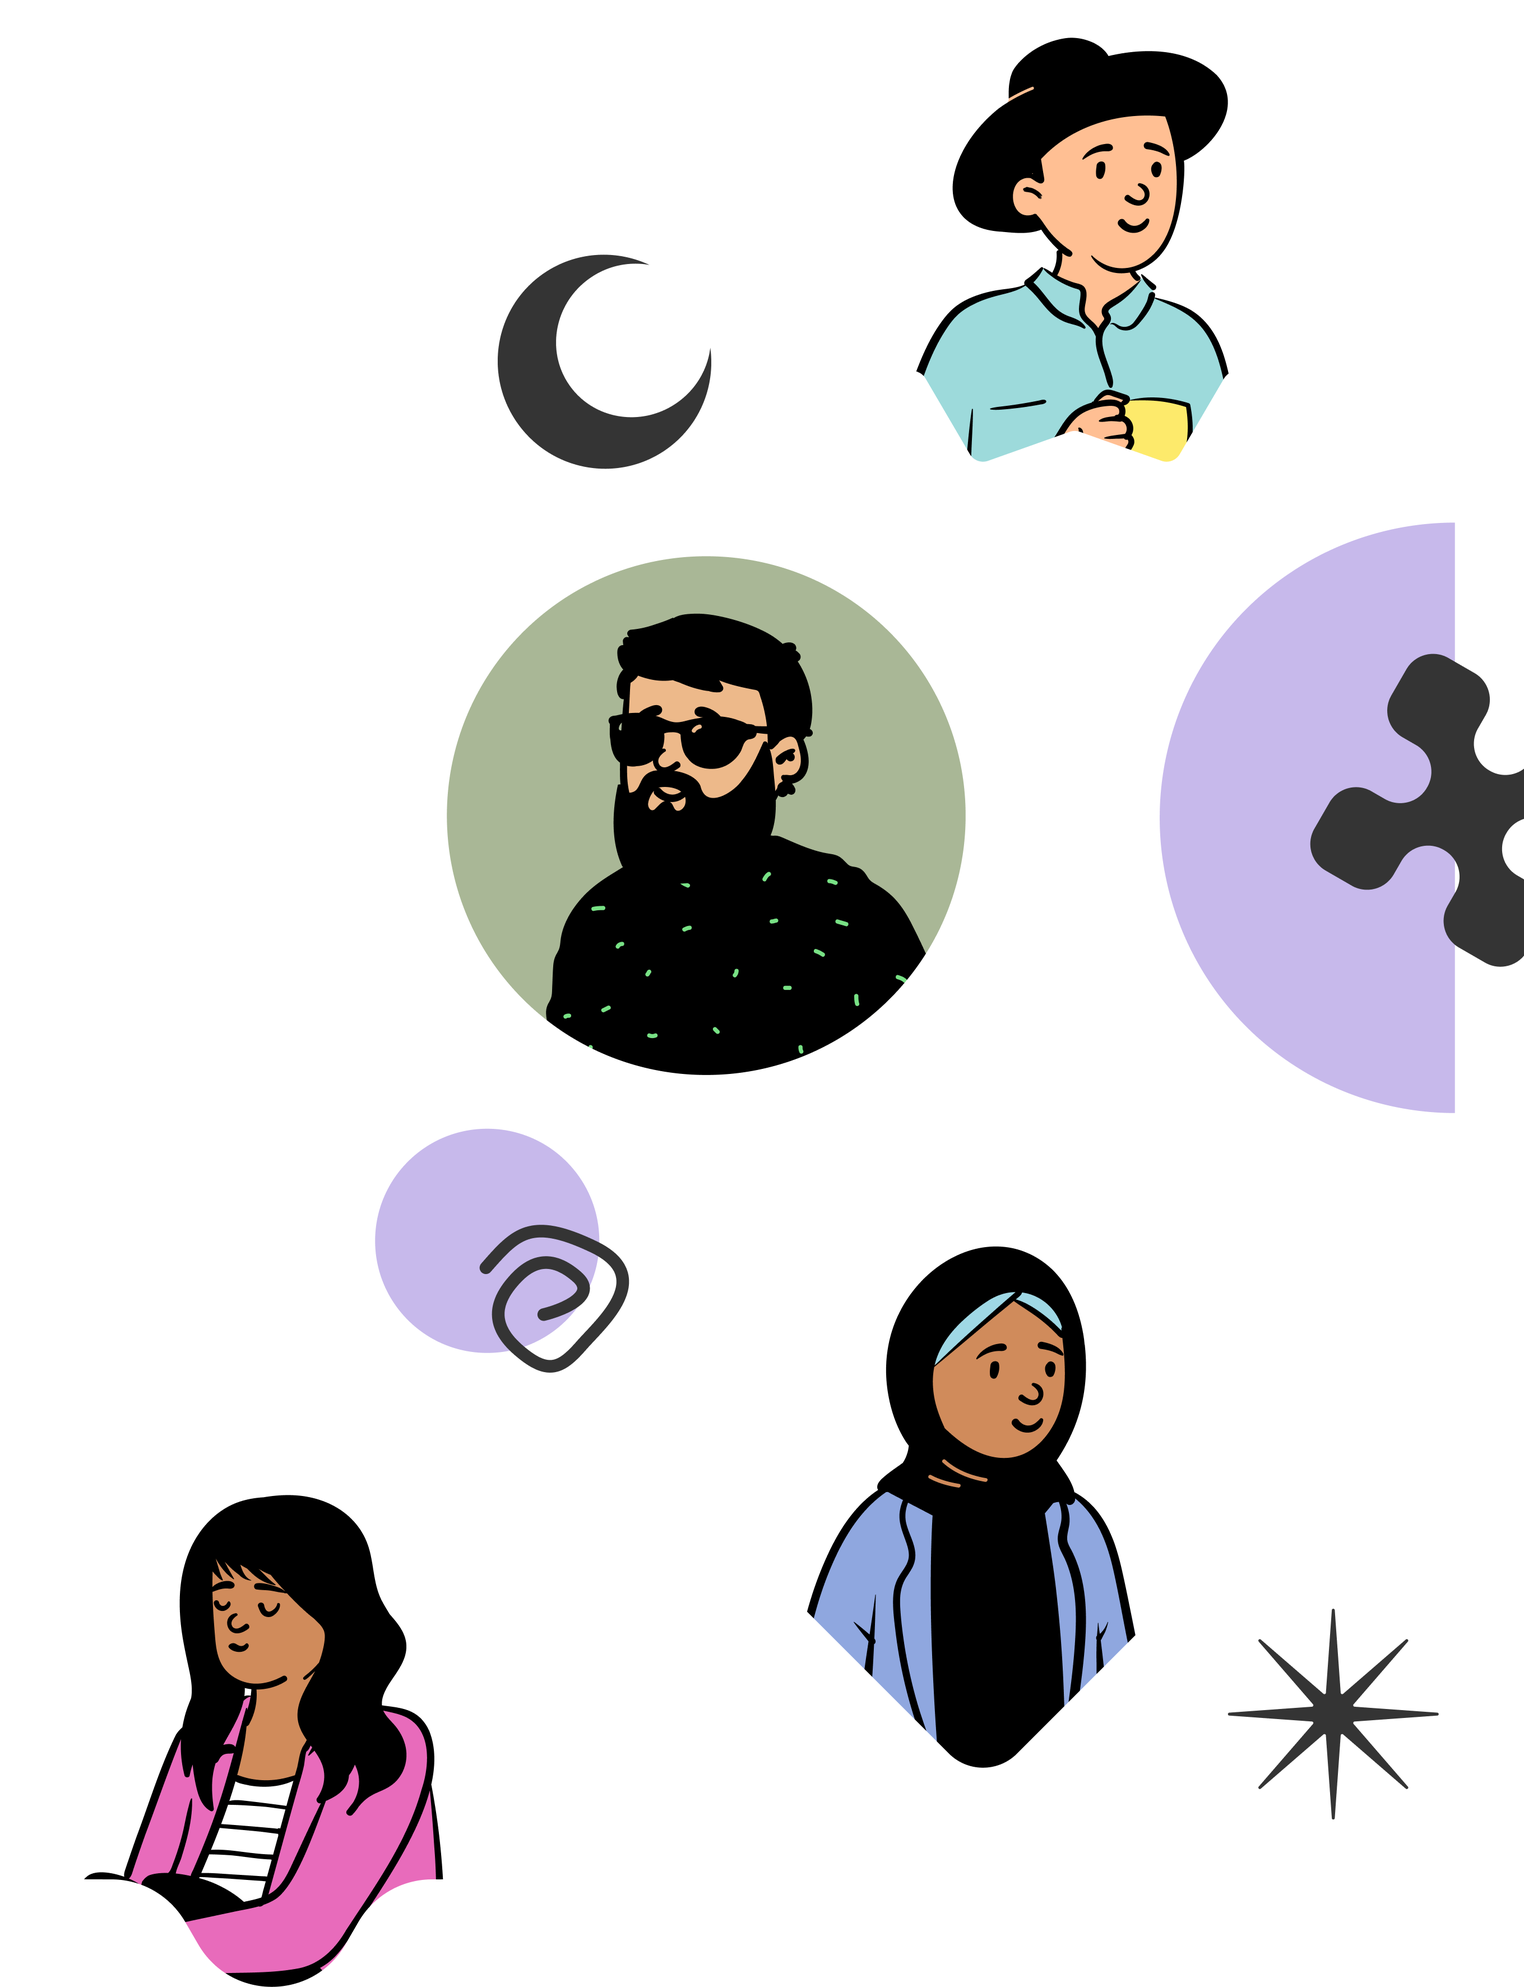
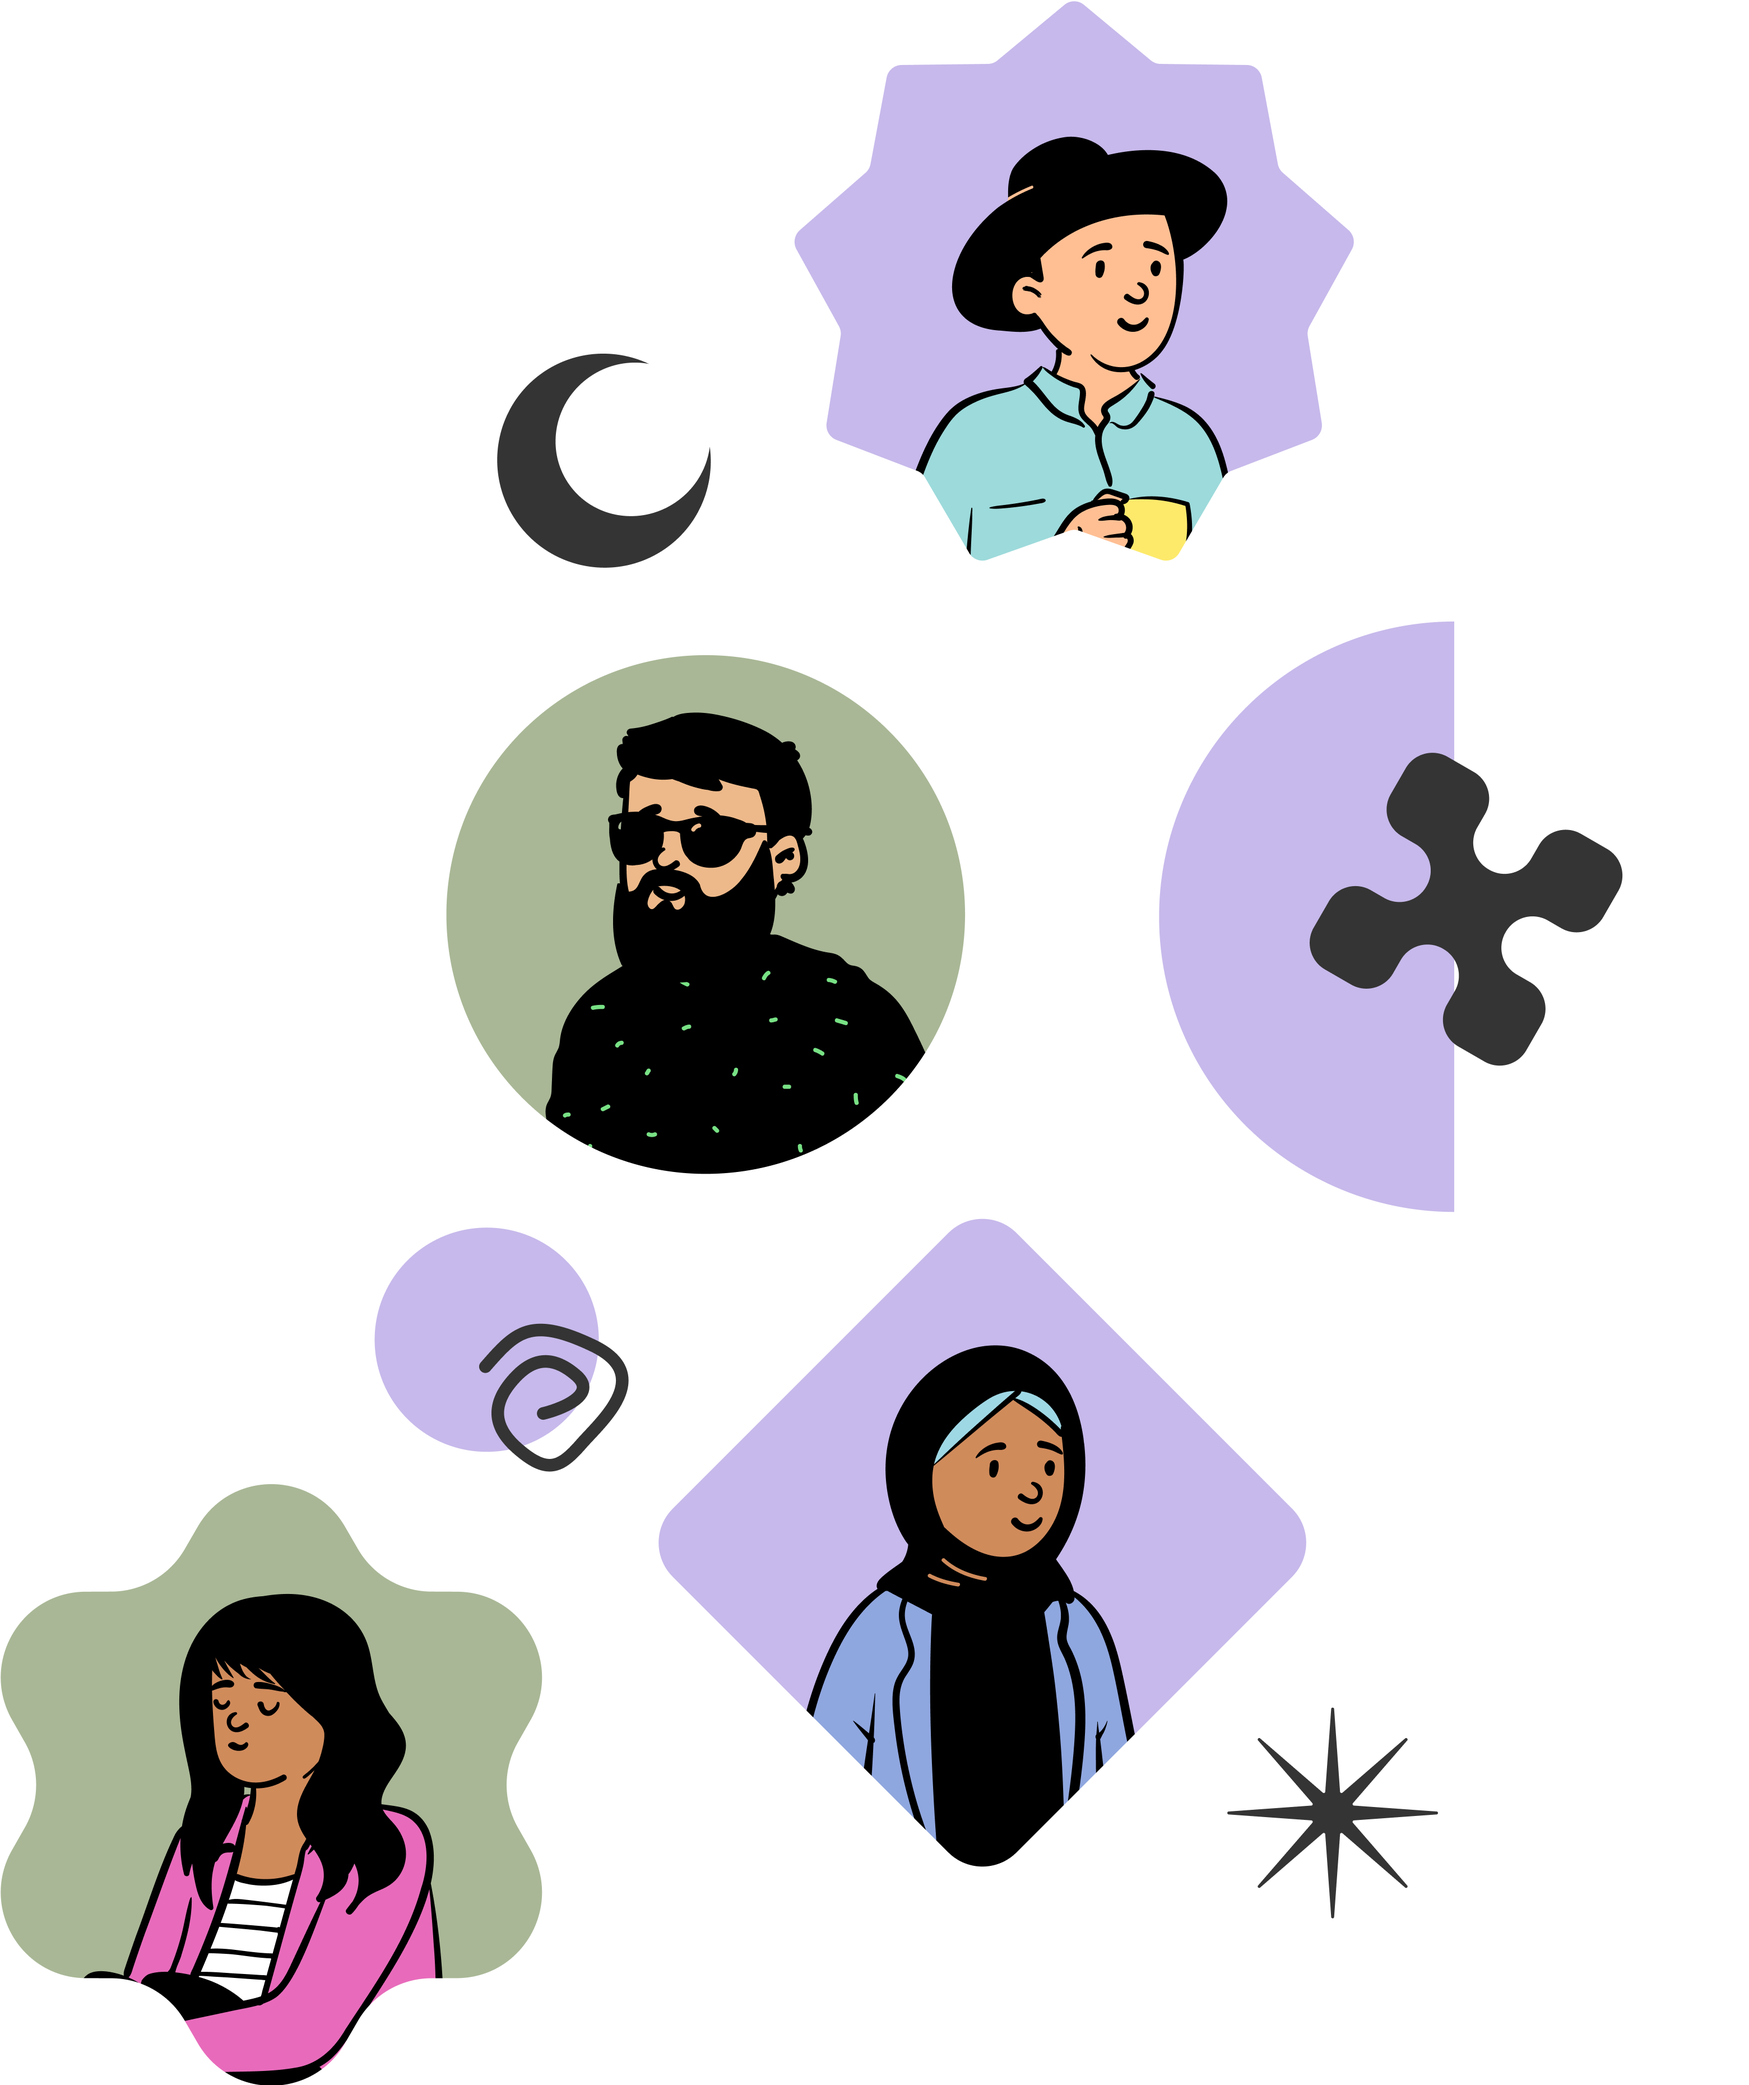
intial spring camp

diff --git a/css/spring-camp.css b/css/spring-camp.css
@@ -8,11 +8,12 @@ body {
   background-image: url('../img/spring-camp-graphic.png');
   background-repeat: no-repeat;
   background-size: 45%;
-  background-position: right top -85px;
+  background-position: right -90px top -110px;
 }
 
 .spring-camp {
   max-width: 85%;
+  height: 100vh;
   margin: 0 auto;
   justify-content: center;
   padding-top: 15rem;
@@ -27,30 +28,30 @@ body {
 .spring-camp-title-intro {
   font-size: 1.5rem;
   font-weight: 300;
-  padding-bottom: 2rem;
+  padding-bottom: 2.5rem;
 }
 
 .spring-camp-title {
-  font-size: 6.5rem;
+  font-size: 6.25rem;
   font-weight: 400;
   line-height: 6.5rem;
-  padding-bottom: 3rem;
+  padding-bottom: 2rem;
 }
 
 .spring-camp-subtitle-div {
   align-items: center;
-  padding-bottom: 2.5rem;
-}
+  margin-bottom: 2rem;
+} 
 
 .spring-camp-subtitle {
-  font-size: 3.5rem;
+  font-size: 3.8rem;
   font-weight: 300;
 }
 
 .spring-camp-subtitle-1 {
   font-size: 2rem;
   font-weight: 200;
-  padding: 0 1rem;
+  padding: 0 1rem 0.5rem 1rem;
 }
 
 .spring-camp-button {
@@ -62,6 +63,15 @@ body {
   border: none;
   background-color: #C7B9EB;
   transition: 0.5s;
+  color: #343434;
+}
+
+.spring-camp-button:active {
+  transform: scale(0.96);
+}
+
+.spring-camp-button a {
+  color: #343434;
 }
 
 .spring-camp-button:hover {
@@ -69,7 +79,7 @@ body {
 }
 
 .spring-camp-date-div {
-  margin-top: 4rem;
+  padding-top: 3rem;
 }
 
 .spring-camp-date-square {
@@ -83,4 +93,18 @@ body {
   font-weight: 200;
   padding-top: 3px;
   padding-left: 3rem;
+}
+
+.speaker-div {
+  flex-wrap: wrap;
+}
+
+.speaker-box {
+  border: 1px solid red;
+  max-width: 10rem;
+}
+
+.speaker-img {
+  width: 10rem;
+  object-fit: fill;
 }

diff --git a/html/spring-camp.html b/html/spring-camp.html
@@ -64,7 +64,9 @@
         <h6 class="spring-camp-subtitle-1">vs</h6>
         <h3 class="spring-camp-subtitle">REALITY</h3>
       </div>
-      <button class="spring-camp-button" href="../index.html">REGISTER</button>
+      <a href="https://docs.google.com/forms/d/e/1FAIpQLScmNFsmXMSsl-9TsDsXL9EvMqUpITe-ORgMXe2cM5mSSqoVJg/viewform" target="_blank">
+        <button class="spring-camp-button">REGISTER</button>
+      </a>
       <div class="spring-camp-date-div flex">
         <div class="spring-camp-date-square"></div>
         <h6 class="spring-camp-date">March 3rd - March 5th</h6>
@@ -72,6 +74,30 @@
     </div>
   </div>
   <!-- Spring Camp -->
+
+  <!-- Speakers -->
+  <div class="speakers">
+    <h3 class="speakers-title">Speakers</h3>
+    <div class="speakers-div flex">
+      <div class="speaker-box">
+        <img class="speaker-img" src="../img/amira.jpg">
+        <h6 class="speaker-name">Amany Suleiman</h6>
+      </div>
+      <div class="speaker-box">
+        <img class="speaker-img" src="../img/amira.jpg">
+        <h6 class="speaker-name">Noor Ali</h6>
+      </div>
+      <div class="speaker-box">
+        <img class="speaker-img" src="../img/amira.jpg">
+        <h6 class="speaker-name">Suleiman Hani</h6>
+      </div>
+      <div class="speaker-box">
+        <img class="speaker-img" src="../img/amira.jpg">
+        <h6 class="speaker-name">Rizwan Ali</h6>
+      </div>
+    </div>
+  </div>
+  <!-- Speakers -->
 
   <!-- Footer -->
   <!-- <footer class="footer">
